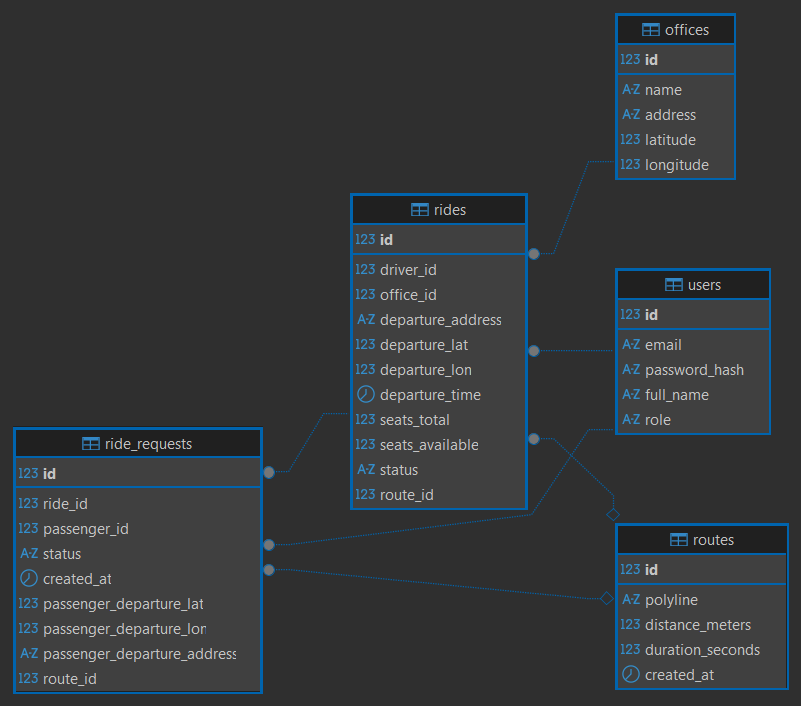
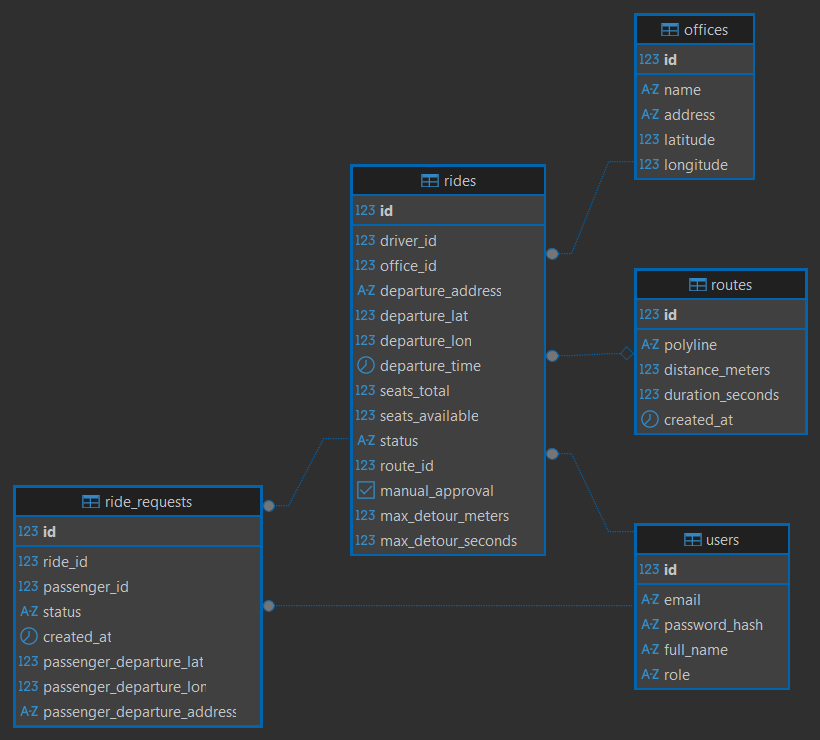
doc: update readme.md

diff --git a/src/main/java/kaleidostop/map/car_map/common/security/JwtAuthFilter.java b/src/main/java/kaleidostop/map/car_map/common/security/JwtAuthFilter.java
@@ -41,7 +41,9 @@ public class JwtAuthFilter extends OncePerRequestFilter {
                     SecurityContextHolder.getContext().setAuthentication(authToken);
                 }
             }
-        }
+        } else {
+			SecurityContextHolder.clearContext();
+		}
         filterChain.doFilter(request, response);
     }
 }

diff --git a/README.md b/README.md
@@ -1,13 +1,17 @@
 # Приложение для совместных поездок в офис 
 
-**Задача:** помочь сотрудникам одной компании вместе ездить в офис.
+Приложение для совместных поездок в офис сотрудниками одной компании.
 
-**Функциональность:**
-1. Отображение карты, на которой указаны офисы компании.
-2. Водители могут выбирать офис, в который поедут, место, из которого поедут, и время.
-3. Отображение маршрута поездки и его примерное время.
-4. Обычные пользователи могут посмотреть, кто именно едет в необходимый офис, и присоединиться к поездке.
-5. Ограничения, кто может присоединиться, а кто нет.
+## Основные возможности
+- **Интерактивная карта** – офисы компании, маршруты поездок и точки посадки пассажиров на Leaflet + OpenStreetMap.
+- **Создание поездки** – водитель указывает офис, время и место отправления (выбором точки на карте), автоматический расчёт маршрута через OSRM.
+- **Присоединение к поездке** – пассажиры подают заявки, выбирая свою точку посадки на карте.
+- **Пересчёт маршрута** – маршрут перестраивается динамически с учётом промежуточных точек посадки пассажиров. Результаты запросов к OSRM кэшируются (Caffeine на 60 секунд).
+- **Ручное или автоматическое отклонение** – водитель может включить ручное подтверждение заявок либо задать лимиты добавочного расстояния/времени, при превышении которых заявка автоматически отклоняется.
+- **Уведомления в реальном времени** – WebSocket-уведомления (STOMP) для водителя о новых заявках, для пассажира – об изменении статуса заявки. 
+- **Личные кабинеты** – «Мои поездки» (водитель) и «Мои заявки» (пассажир) с группировкой по статусам, счетчиком непрочитанных заявок и возможностью подтвердить/отклонить заявки.
+- **Административная панель** – управление списком офисов (добавление, редактирование, удаление) с выбором координат на карте.
+- **Ролевая модель** – три роли: пассажир (USER), водитель (DRIVER), администратор (ADMIN). Аутентификация через JWT.
 
 ## Интерфейс
 
@@ -19,25 +23,35 @@
 
 ## Схема данных
 ![Поездки](images/README/schema.png)
-
+- User – пользователь системы (Админ, Водитель, Пассажир) 
+- Ride – поездка
+- Route – маршрут поездки 
+- RideRequest – запрос на присоединение к поездке 
+- Office – офис
 
 ## Инструкция по запуску
-1. Склонировать репозиторий:
+1. Склонируйте репозиторий:
 
 ```
-git clone
+git clone https://github.com/kaleidostop/car-map
 ```
-2. Запустить приложение:
+2. Запустите базу данных:
 
 ```
-docker compose up
+docker compose up -d
 ```
 
-3. Открыть в браузере http://localhost:8080
-
-Для запуска должны быть установлены переменные среды `JWT_SECRET`, `POSTGRES_DB`, `POSTGRES_USER`, `POSTGRES_PASSWORD`. 
+3. Создайте файл .env в корне проекта с переменной `JWT_SECRET` (или задайте переменную окружения).
 
 JWT-секрет можно сгенерировать, например, командой `openssl rand -base64 64`
+
+4. Запустите приложение
+```
+./gradlew bootRun
+```
+При первом запуске дождитесь, когда сгенерируются тестовые данные. 
+
+5. Откройте http://localhost:8080
 
 ## Технологии
 